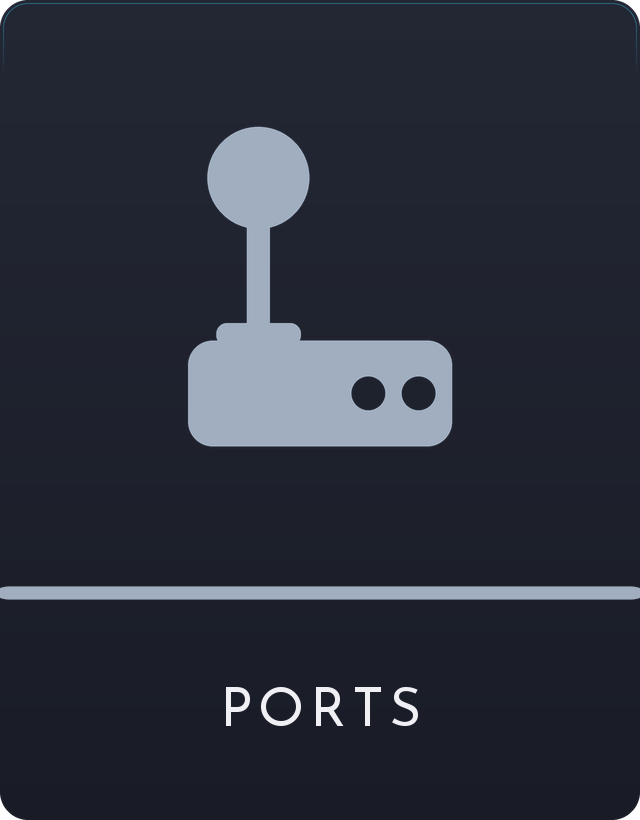
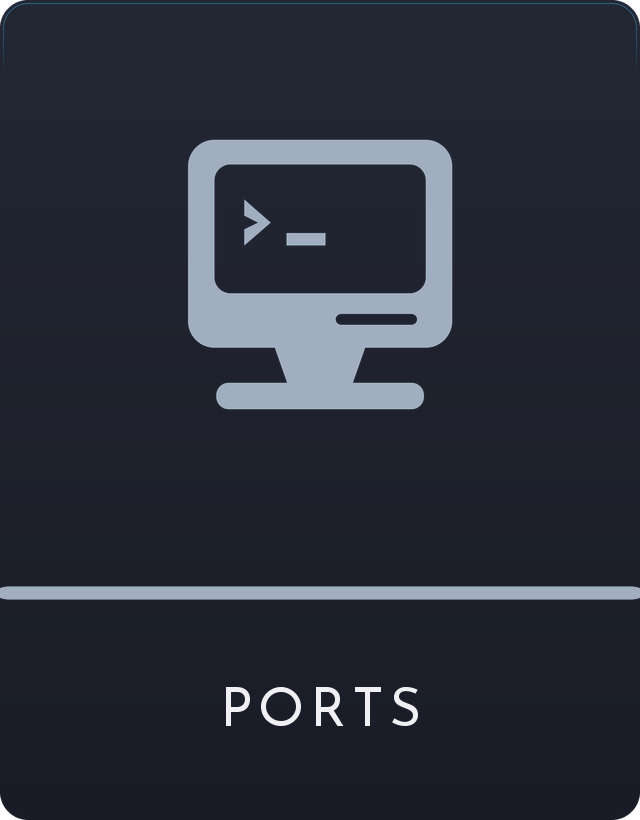
Fancy Pants' heart and watch matte; Ports is a retro PC monitor
Favorites' heart is rendered (tools/genfavfancy.py) in matte red plastic,
and Recently Played's watch case is satin, where both shone like nothing
else in the set. Ports' cards are a retro PC monitor in place of the
arcade stick: flat in Plain Jane, rendered in matte beige in Fancy
Pants, its screen a real MS-DOS session (CD GAMES, DIR /B, DOOM, KEEN,
QUAKE, the prompt).

Claude-Session: https://claude.ai/code/session_01TGGsTE1DNkb6MQqq6tNzFj

Changed region(s): [[0.2812, 0.1524, 0.7188, 0.5488]]

diff --git a/web/index.html b/web/index.html
@@ -692,6 +692,7 @@
   </div>
   <div class="releases">
     <h3>Recent releases</h3>
+    <div class="rel"><span class="ver">2.7.4</span><p>Fancy Pants' <b>Favorites</b> heart and <b>Recently Played</b> watch now have the same matte finish as the consoles, and <b>Ports</b> is a retro PC monitor in every theme, a real MS-DOS session on its screen in Fancy Pants.</p></div>
     <div class="rel"><span class="ver">2.7.3</span><p>A new UI Theme, <b>ChaOS Pixel Burst</b>: the logo's pixel look on every screen. <b>Save states sync</b>: they now live in <code>Saves/States</code>, so Syncthing's Saves folder carries them, and RomM's Sync Saves syncs them too. Fixed: a new card now has a folder for every console, PlayStation and PICO-8 included.</p></div>
     <div class="rel"><span class="ver">2.7.2</span><p>Two new <b>Game List View</b> choices, <b>List + Art Left</b> and <b>List + Art Right</b>: the list beside the selected game's cover, which fits itself to the art's shape. Only the selected name scrolls when it's too long.</p></div>
     <div class="rel"><span class="ver">2.7.1</span><p>Fixed: on the <b>Shelves</b> page in the normal game view, each row did the one above's, so Shelf Order opened Arrange Shelves. Every row does what it says again.</p></div>

diff --git a/tools/genportscard.py b/tools/genportscard.py
@@ -6,9 +6,14 @@ Ports is not a console, so like Favorites and Muse there is no photograph to
 cut and the cards are generated - the classic one on tools/cardstyle.py, the drawn set's own
 stock, rule and tracked name.
 
-THE MARK is an arcade stick reduced to flat shapes - a ball on a shaft over a
-base with two buttons - the generic picture of "a game", which is what a port
-is: any game at all, brought over. No strokes, as the deck has none.
+THE MARK is a retro PC monitor (ChaOS 2.7.4, for the arcade stick): ports
+come from the PC, and its screen is a command line. Classic is flat shapes,
+the case with its screen knocked out, a prompt and cursor on it, a drive slot
+in the chin, the neck and the foot, no strokes, as the deck has none. Fancy
+is the same monitor rendered (tools/raymarch.py) in matte beige plastic, and
+its screen is a real MS-DOS session (CD GAMES, DIR /B, three games that are
+DOS games and PortMaster ports alike), not filler. tools/genportsfancy.py,
+the arcade stick, is kept.
 
 THE ACCENT, A0AEC0, a cool steel grey - the color of a PC case, which is
 where ports come from, and the one family left on a shelf of twelve colors
@@ -19,75 +24,132 @@ change the other.
     tools/genportscard.py
 """
 import os
-
 import sys
 
-from PIL import Image, ImageDraw
+import numpy as np
+from PIL import Image, ImageDraw, ImageFont
 
 sys.path.insert(0, os.path.dirname(os.path.abspath(__file__)))
 import cardstyle  # noqa: E402
+import raymarch as rm  # noqa: E402
 
 ROOT = os.path.dirname(os.path.dirname(os.path.abspath(__file__)))
 CLASSIC = os.path.join(ROOT, "res", "cards", "classic", "PORTS.png")
 FANCY = os.path.join(ROOT, "res", "cards", "fancy", "PORTS.png")
+MONO = "/usr/share/fonts/truetype/dejavu/DejaVuSansMono-Bold.ttf"   # drawn into the picture only
 
 STEEL = (0xA0, 0xAE, 0xC0)
 SS = 4
 
 
 def mark(d, cx, cy, fill, cut, scale=1.0):
-    """The stick, about 300x363 at scale 1: its ink is centred 16px above
-    (cx, cy), which the classic card allows for."""
+    """A monitor in flat shapes, about 300x330 at scale 1, ink centred on
+    (cx, cy): the case with its screen knocked out, a prompt and a cursor on
+    the screen, a drive slot in the chin, the neck and the foot."""
     k = SS * scale
-    # the base: a wide slab
-    bw, bh = 300 * k, 120 * k
-    bx0, by0 = cx - bw / 2, cy + 45 * k
-    d.rounded_rectangle([bx0, by0, bx0 + bw, by0 + bh], radius=28 * k, fill=fill)
-    # two buttons knocked out of it, right of the stick
-    for dx in (55, 112):
-        r = 19 * k
-        bcx, bcy = cx + dx * k, by0 + bh / 2
-        d.ellipse([bcx - r, bcy - r, bcx + r, bcy + r], fill=cut)
-    # the shaft, rising from the base's left half
-    sx = cx - 70 * k
-    sw = 26 * k
-    d.rectangle([sx - sw / 2, cy - 110 * k, sx + sw / 2, by0 + 8 * k], fill=fill)
-    # the collar where it meets the base
-    cw, ch = 96 * k, 26 * k
-    d.rounded_rectangle([sx - cw / 2, by0 - ch + 6 * k, sx + cw / 2, by0 + 6 * k],
-                        radius=12 * k, fill=fill)
-    # the ball
-    r = 58 * k
-    by = cy - 140 * k
-    d.ellipse([sx - r, by - r, sx + r, by + r], fill=fill)
+    bw, bh = 300 * k, 236 * k
+    x0, y0 = cx - bw / 2, cy - 165 * k
+    d.rounded_rectangle([x0, y0, x0 + bw, y0 + bh], radius=30 * k, fill=fill)
+    # the screen, knocked out
+    sx0, sy0, sx1, sy1 = x0 + 30 * k, y0 + 28 * k, x0 + bw - 30 * k, y0 + bh - 62 * k
+    d.rounded_rectangle([sx0, sy0, sx1, sy1], radius=18 * k, fill=cut)
+    # a prompt: a chevron, then a cursor block
+    px, py = sx0 + 34 * k, sy0 + 40 * k
+    t = 13 * k
+    d.polygon([(px, py), (px + 30 * k, py + 26 * k), (px, py + 52 * k),
+               (px, py + 52 * k - t * 1.4), (px + 30 * k - t * 1.1, py + 26 * k), (px, py + t * 1.4)], fill=fill)
+    d.rectangle([px + 48 * k, py + 38 * k, px + 92 * k, py + 52 * k], fill=fill)
+    # a drive slot in the chin, knocked out
+    d.rounded_rectangle([x0 + bw - 132 * k, y0 + bh - 38 * k, x0 + bw - 40 * k, y0 + bh - 26 * k],
+                        radius=6 * k, fill=cut)
+    # the neck and the foot
+    ny = y0 + bh
+    d.polygon([(cx - 52 * k, ny - 2 * k), (cx + 52 * k, ny - 2 * k), (cx + 36 * k, ny + 44 * k),
+               (cx - 36 * k, ny + 44 * k)], fill=fill)
+    d.rounded_rectangle([cx - 118 * k, ny + 40 * k, cx + 118 * k, ny + 70 * k], radius=14 * k, fill=fill)
 
 
 def classic():
     im = cardstyle.card(STEEL, "PORTS",
-                        lambda d, cx, cy, k, fill, cut: mark(d, cx, cy + 16 * k, fill, cut, 0.88 * k / SS))
+                        lambda d, cx, cy, k, fill, cut: mark(d, cx, cy, fill, cut, 0.88 * k / SS))
     im.save(CLASSIC)
     print(CLASSIC, os.path.getsize(CLASSIC), "bytes")
 
 
-def fancy():
-    """The same mark alone, for the photographic set: trimmed, longest side
-    96% of a 384 frame, centered (res/cards/fancy/SOURCE.md). The buttons are
-    knocked through to nothing, as the photographs' backgrounds are."""
-    n = 1600
-    big = Image.new("RGBA", (n * SS, n * SS), (0, 0, 0, 0))
-    d = ImageDraw.Draw(big)
-    mark(d, n * SS // 2, n * SS // 2, STEEL + (255,), (0, 0, 0, 0), scale=3.0)
-    box = big.getchannel("A").getbbox()
-    big = big.crop(box)
-    k = 369.0 / max(big.size)
-    sw, sh = round(big.width * k), round(big.height * k)
-    big = big.resize((sw, sh), Image.LANCZOS)
-    out = Image.new("RGBA", (384, 384), (0, 0, 0, 0))
-    out.paste(big, ((384 - sw) // 2, (384 - sh) // 2), big)
-    out.save(FANCY)
-    print(FANCY, out.size, "ink", out.getchannel("A").getbbox())
+# ---- fancy ----------------------------------------------------------------
 
+M = rm.rot(4, -26, 0)
+BEIGE = (212, 204, 182)
+SW, SH = 1.46, 1.08          # the tube's face, half sizes
+
+
+def screen_picture():
+    """A real MS-DOS session, not filler: into the games folder, a bare
+    listing (DIR /B, MS-DOS 5 on) of three games that are DOS games and
+    PortMaster ports alike, and the prompt waiting. In a monospace face drawn
+    small and blown up square, as a CRT's text mode is."""
+    n = 250                                   # drawn at a quarter, then x4
+    w, h = n, int(n * SH / SW)
+    im = Image.new("RGB", (w, h), (12, 20, 14))
+    d = ImageDraw.Draw(im)
+    f = ImageFont.truetype(MONO, 15)
+    g = (120, 255, 140)
+    lines = ["C:\\>CD GAMES", "C:\\GAMES>DIR /B", "DOOM", "KEEN", "QUAKE", "C:\\GAMES>_"]
+    for k, t in enumerate(lines):
+        d.text((16, 14 + k * 17), t, font=f, fill=g)
+    im = im.convert("L").point(lambda v: 255 if v > 90 else 0)   # hard pixels, no grey edges
+    im = Image.merge("RGB", [im.point(lambda v: 12 + v * (c - 12) // 255) for c in g])
+    im = im.resize((w * 4, h * 4), Image.NEAREST)
+    a = np.asarray(im, np.float64)
+    a[::4] *= 0.78                            # scanlines
+    hh, ww = a.shape[:2]
+    yy, xx = np.mgrid[0:hh, 0:ww]
+    rr = np.hypot((xx - ww / 2) / (ww / 2), (yy - hh / 2) / (hh / 2))
+    a *= (1.08 - 0.35 * rr ** 2)[..., None]
+    return Image.fromarray(np.clip(a, 0, 255).astype(np.uint8))
+
+
+SCREEN = rm.Tex(screen_picture(), -SW, SW, -SH + 0.42, SH + 0.42, base=(14, 22, 16))
+
+
+def frame(p):
+    return rm.local(p, (0, 0, 0), M)
+
+
+MATS = [rm.Mat(BEIGE, gloss=0.38, spec=0.5),                                 # 0 case
+        rm.Mat(lambda p: SCREEN(frame(p)), gloss=0.82, spec=0.6, emit=0.9),  # 1 the tube's glass
+        rm.Mat((34, 34, 38), gloss=0.3, spec=0.3),                           # 2 drive slot, vents
+        rm.Mat((90, 220, 110), gloss=0.4, spec=0.4, emit=1.0)]               # 3 power light
+
+
+def scene(p):
+    q = frame(p)
+    # the front: a deep rounded box; the back tapers like a tube's
+    front = rm.box(q - [0, 0.2, 0.25], (1.85, 1.62, 0.42), 0.16)
+    t = np.clip((0.0 - q[..., 2]) / 1.4, 0, 1)
+    qb = q - [0, 0.28, -0.75]
+    hb = np.stack([1.85 - 0.55 * t - 0.22, 1.5 - 0.45 * t - 0.22, np.full_like(t, 0.62 - 0.22)], -1)
+    db = np.abs(qb) - hb
+    back = (np.linalg.norm(np.maximum(db, 0), axis=-1) + np.minimum(db.max(-1), 0)) - 0.22
+    case = rm.smin(front, back, 0.12)
+    # the bezel's opening, and the tube's face a little inside, bulging
+    win = rm.box(q - [0, 0.42, 0.68], (SW + 0.04, SH + 0.04, 0.12), 0.1)
+    case = np.maximum(case, -win)
+    bulge = 0.06 * (1 - ((q[..., 0] / SW) ** 2 + ((q[..., 1] - 0.42) / SH) ** 2) * 0.5)
+    tube = rm.box(q - [0, 0.42, 0.56], (SW + 0.02, SH + 0.02, 0.03), 0.08) - bulge
+    # the chin: a drive slot and a power light
+    slot = rm.box(q - [0.85, -1.12, 0.67], (0.46, 0.035, 0.02), 0.01)
+    led = rm.sphere(q - [-1.38, -1.12, 0.66], 0.055)
+    # neck and foot
+    neck = rm.box(q - [0, -1.62, -0.25], (0.55, 0.22, 0.5), 0.08)
+    foot = rm.box(q - [0, -1.9, -0.2], (1.25, 0.09, 0.95), 0.08)
+    case = np.minimum(case, np.minimum(neck, foot))
+    d = np.stack([case, tube, slot, led], -1)
+    return d.min(-1), d.argmin(-1)
+
+
+scene.mats = MATS
 
 if __name__ == "__main__":
     classic()
-    fancy()
+    rm.render(scene, FANCY, cam=(0.0, 1.2, 9.5), look=(0, -0.05, 0), fov=28)

diff --git a/tools/genfavfancy.py b/tools/genfavfancy.py
@@ -1,0 +1,49 @@
+#!/usr/bin/env python3
+"""Draw res/cards/fancy/FAVORITES.png, Favorites' card in Fancy Pants: a
+heart, rendered (tools/raymarch.py) from no images, in matte red plastic with
+the soft sheen of the consoles' own: a 2D heart (Inigo Quilez's curve)
+extruded and rounded into a pillow, turned as the set's rendered cards are.
+It replaces a glossy lacquered heart that shone like nothing else in the set
+(2026-11-21).
+
+    tools/genfavfancy.py
+"""
+import os
+import sys
+
+import numpy as np
+
+sys.path.insert(0, os.path.dirname(os.path.abspath(__file__)))
+import raymarch as rm  # noqa: E402
+
+ROOT = os.path.dirname(os.path.dirname(os.path.abspath(__file__)))
+OUT = os.path.join(ROOT, "res", "cards", "fancy", "FAVORITES.png")
+M = rm.rot(4, -24, 0)
+MATS = [rm.Mat((196, 32, 44), gloss=0.42, spec=0.55)]
+
+
+def heart2d(x, y):
+    """iq's heart: tip at (0, 0), lobes up to about y = 1.1"""
+    x = np.abs(x)
+    a = np.sqrt((x - 0.25) ** 2 + (y - 0.75) ** 2) - np.sqrt(2) / 4
+    m = np.maximum(x + y, 0) * 0.5
+    b = np.sqrt(np.minimum(x ** 2 + (y - 1) ** 2, (x - m) ** 2 + (y - m) ** 2)) * np.sign(x - y)
+    return np.where(x + y > 1, a, b)
+
+
+def scene(p):
+    q = rm.local(p, (0, 0, 0), M)
+    s = 2.2
+    d2 = heart2d(q[..., 0] / s, (q[..., 1] + 1.15) / s) * s
+    r = 0.36                      # the pillow's rounding
+    h = 0.06                      # half the flat core's thickness
+    dx = d2 + r
+    dz = np.abs(q[..., 2]) - h
+    d = np.sqrt(np.maximum(dx, 0) ** 2 + np.maximum(dz, 0) ** 2) + np.minimum(np.maximum(dx, dz), 0) - r
+    return d, np.zeros(d.shape, int)
+
+
+scene.mats = MATS
+
+if __name__ == "__main__":
+    rm.render(scene, OUT, cam=(0.0, 0.5, 9.0), look=(0, 0, 0), fov=26)

diff --git a/tools/genrecentwatch.py b/tools/genrecentwatch.py
@@ -69,12 +69,14 @@ def watch_studio(d):
     return (env + sb + strip)[..., None] * np.array([0.99, 1.0, 1.03])
 
 
-rm.studio = watch_studio
+# ChaOS 2.7.4: satin, under the set's own studio (watch_studio was for the
+# polished case, kept for it)
+SATIN = (206, 208, 212)
 
 
-MATS = [rm.Mat(STEEL, gloss=0.96, metal=True),                               # 0 case
+MATS = [rm.Mat(SATIN, gloss=0.42, metal=True),                               # 0 case
         rm.Mat(lambda p: FACE(frame(p)), gloss=0.55, spec=0.3, emit=0.95),  # 1 face, under glass
-        rm.Mat((242, 243, 245), gloss=0.98, metal=True)]                     # 2 polished rim and crown
+        rm.Mat((222, 224, 228), gloss=0.5, metal=True)]                       # 2 rim and crown
 
 
 def scene(p):

diff --git a/res/cards/fancy/SOURCE.md b/res/cards/fancy/SOURCE.md
@@ -28,8 +28,10 @@ codes (FC, SFC, MD) that describe the code, not the photograph.
 
 FAVORITES.png is not one of these photographs, and nothing above applies to
 it. Favorites is a shelf rather than a console, so there is no hardware to
-photograph and it carries a heart instead. It was generated rather than shot,
-carries no attribution requirement, and no rights are claimed in it.
+photograph and it carries a heart instead. Since ChaOS 2.7.4 it is rendered
+(`tools/genfavfancy.py`) from no images, in matte red plastic to match the
+set's finish, where it was a glossy generated heart. It carries no
+attribution requirement, and no rights are claimed in it.
 
 ## MUSE.png
 
@@ -48,7 +50,8 @@ to the project on 2026-11-14; its source is `source/recent-watch.jpg`, kept
 here. `tools/genrecentwatch.py` lays its dial and inner ring on a modelled
 steel case and crown and renders it (`tools/raymarch.py`), so it turns as the
 other rendered cards do, with the case's side showing, framed as above. It
-replaces the rendered alarm clock (`tools/genrecentfancy.py`), which is kept.
+replaces the rendered alarm clock (`tools/genrecentfancy.py`), which is kept. Since 2.7.4 its case is satin rather than polished,
+to sit with the set's matte plastics.
 
 ## PS.png
 
@@ -60,3 +63,9 @@ Commons, released by him into the public domain, as the consoles above are.
 The checkerboard was taken off by filling from the edges over near-white,
 neutral pixels only - the console's own grey is darker - then trimmed and
 scaled as above, longest side 96% of 384.
+
+## PORTS.png
+
+Not a console: Ports' card, a retro PC monitor rendered (`tools/genportscard.py`)
+from no images, in matte beige plastic, a real MS-DOS session on its screen. It
+replaced the rendered arcade stick (`tools/genportsfancy.py`, kept) in 2.7.4.
